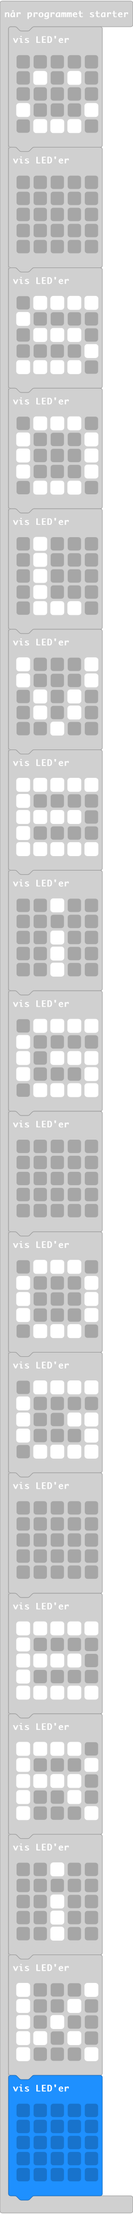
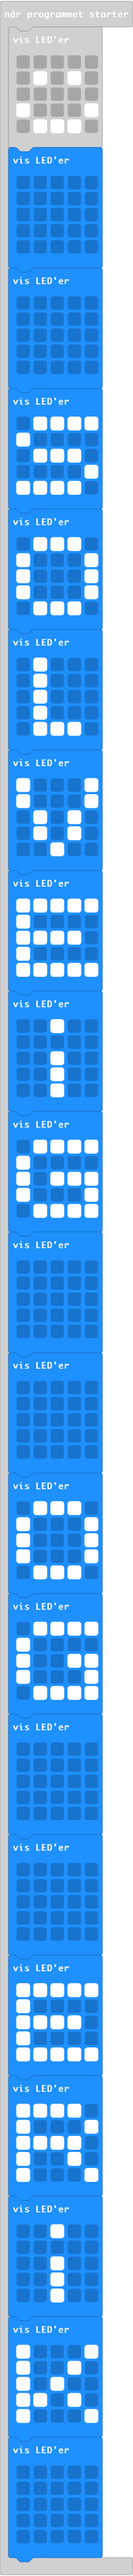
Opdater main.blocks, main.ts

diff --git a/main.ts b/main.ts
@@ -13,6 +13,13 @@ basic.showLeds(`
     . . . . .
     `)
 basic.showLeds(`
+    . . . . .
+    . . . . .
+    . . . . .
+    . . . . .
+    . . . . .
+    `)
+basic.showLeds(`
     . # # # #
     # . . . .
     . # # # .
@@ -69,6 +76,13 @@ basic.showLeds(`
     . . . . .
     `)
 basic.showLeds(`
+    . . . . .
+    . . . . .
+    . . . . .
+    . . . . .
+    . . . . .
+    `)
+basic.showLeds(`
     . # # # .
     # . . . #
     # . . . #
@@ -81,6 +95,13 @@ basic.showLeds(`
     # . . # #
     # . . . #
     . # # # #
+    `)
+basic.showLeds(`
+    . . . . .
+    . . . . .
+    . . . . .
+    . . . . .
+    . . . . .
     `)
 basic.showLeds(`
     . . . . .
